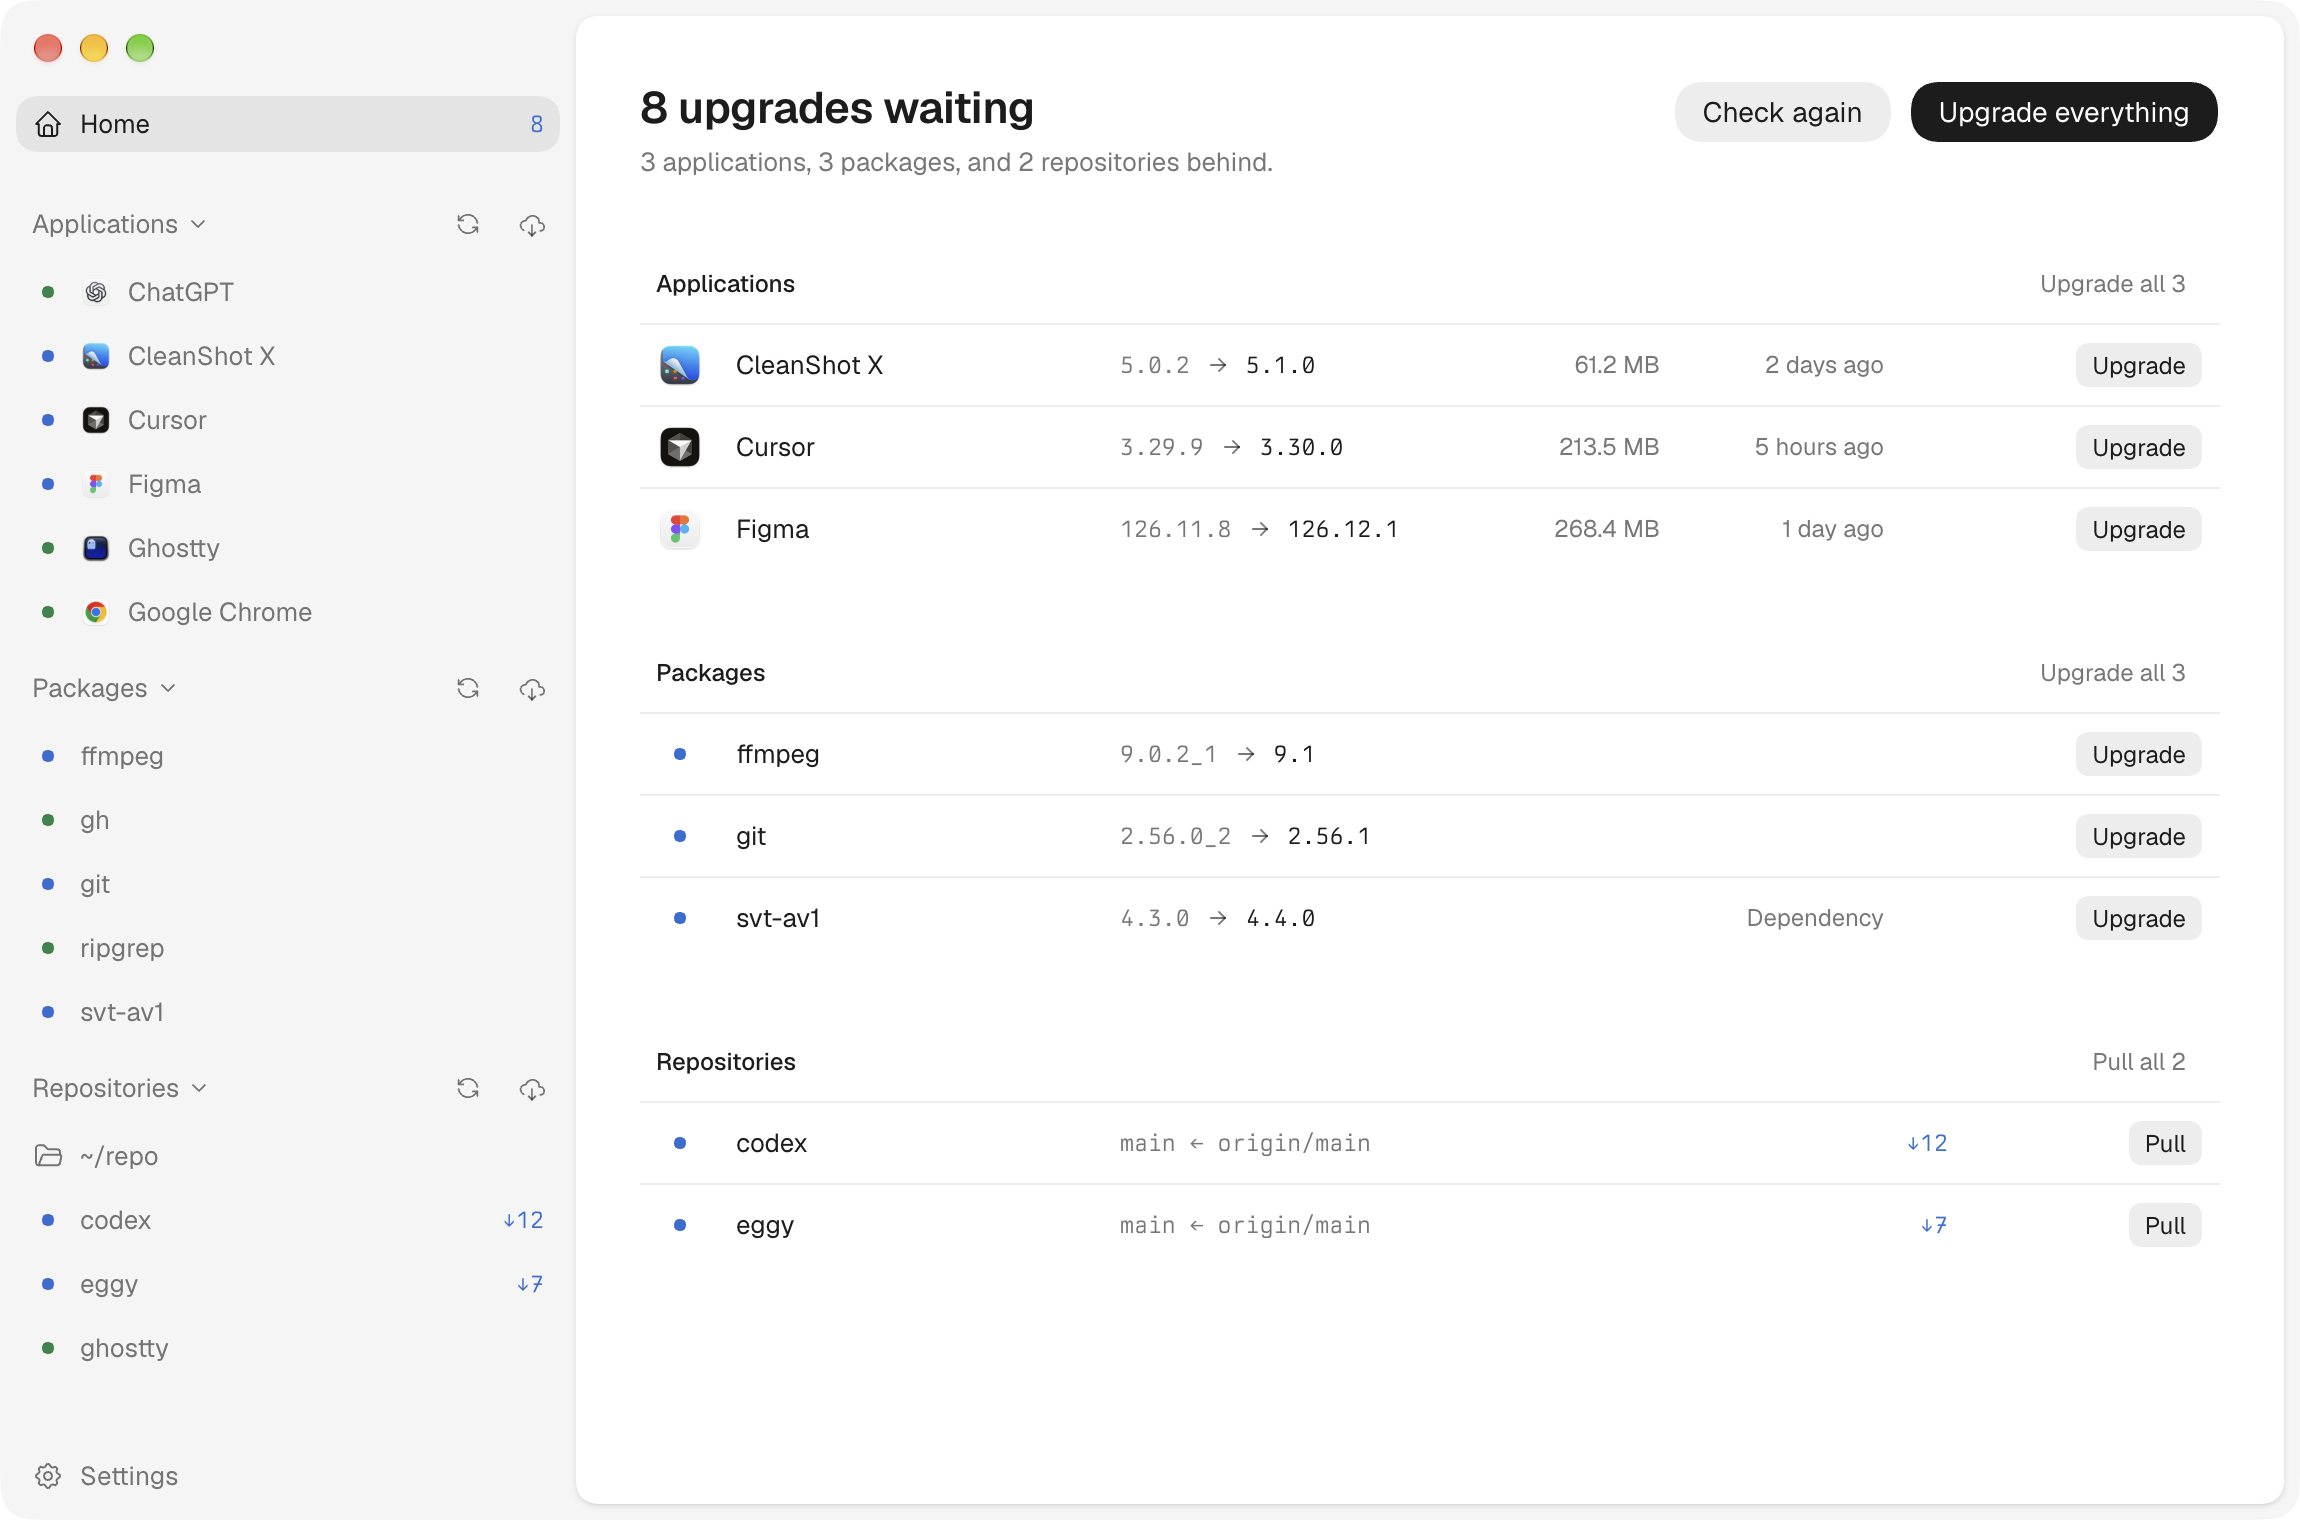
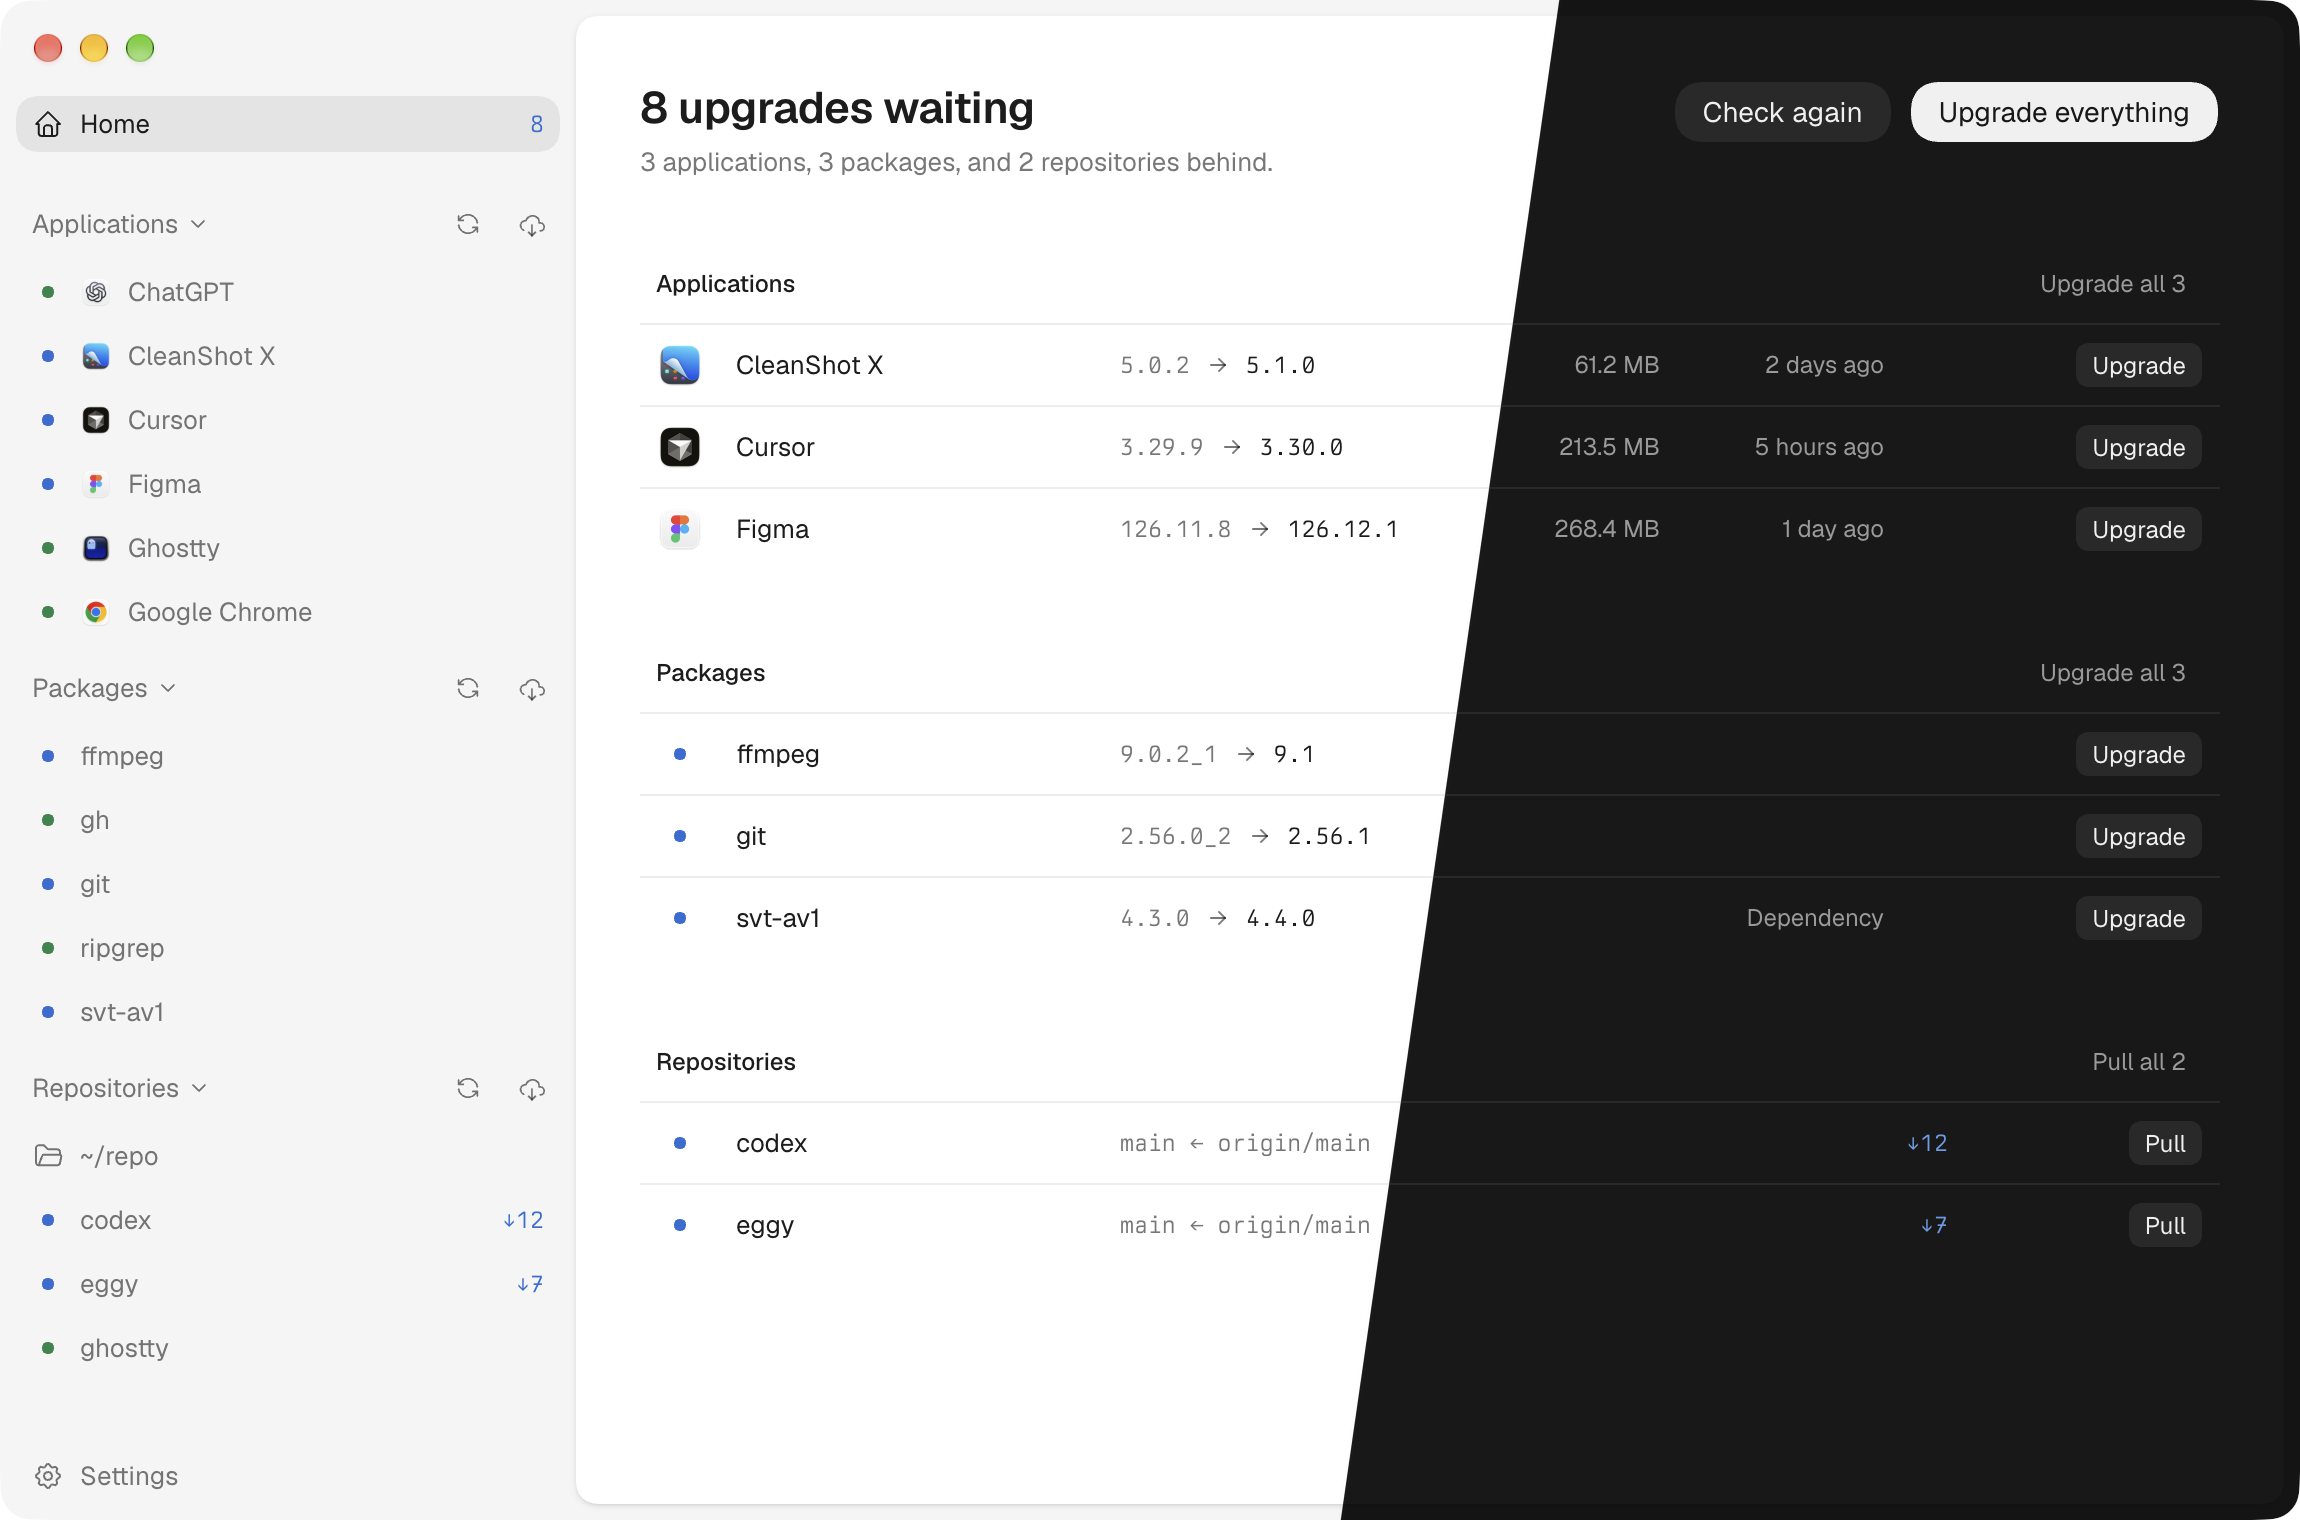
docs: show the home screenshot in both themes
present the light and dark themes side by side at the top of the readme

- retake the home screenshot with sample data in light and dark
- split the window diagonally through the gap between columns
- describe both themes in the screenshot alt text

diff --git a/README.md b/README.md
@@ -4,7 +4,7 @@
 
 macOS app that updates installed applications, Homebrew packages, and local git repositories.
 
-![Home with upgrades waiting across applications, packages, and repositories](docs/screenshots/home.png)
+![Home in the light and dark themes with upgrades waiting across applications, packages, and repositories](docs/screenshots/home.png)
 
 ## Applications
 
